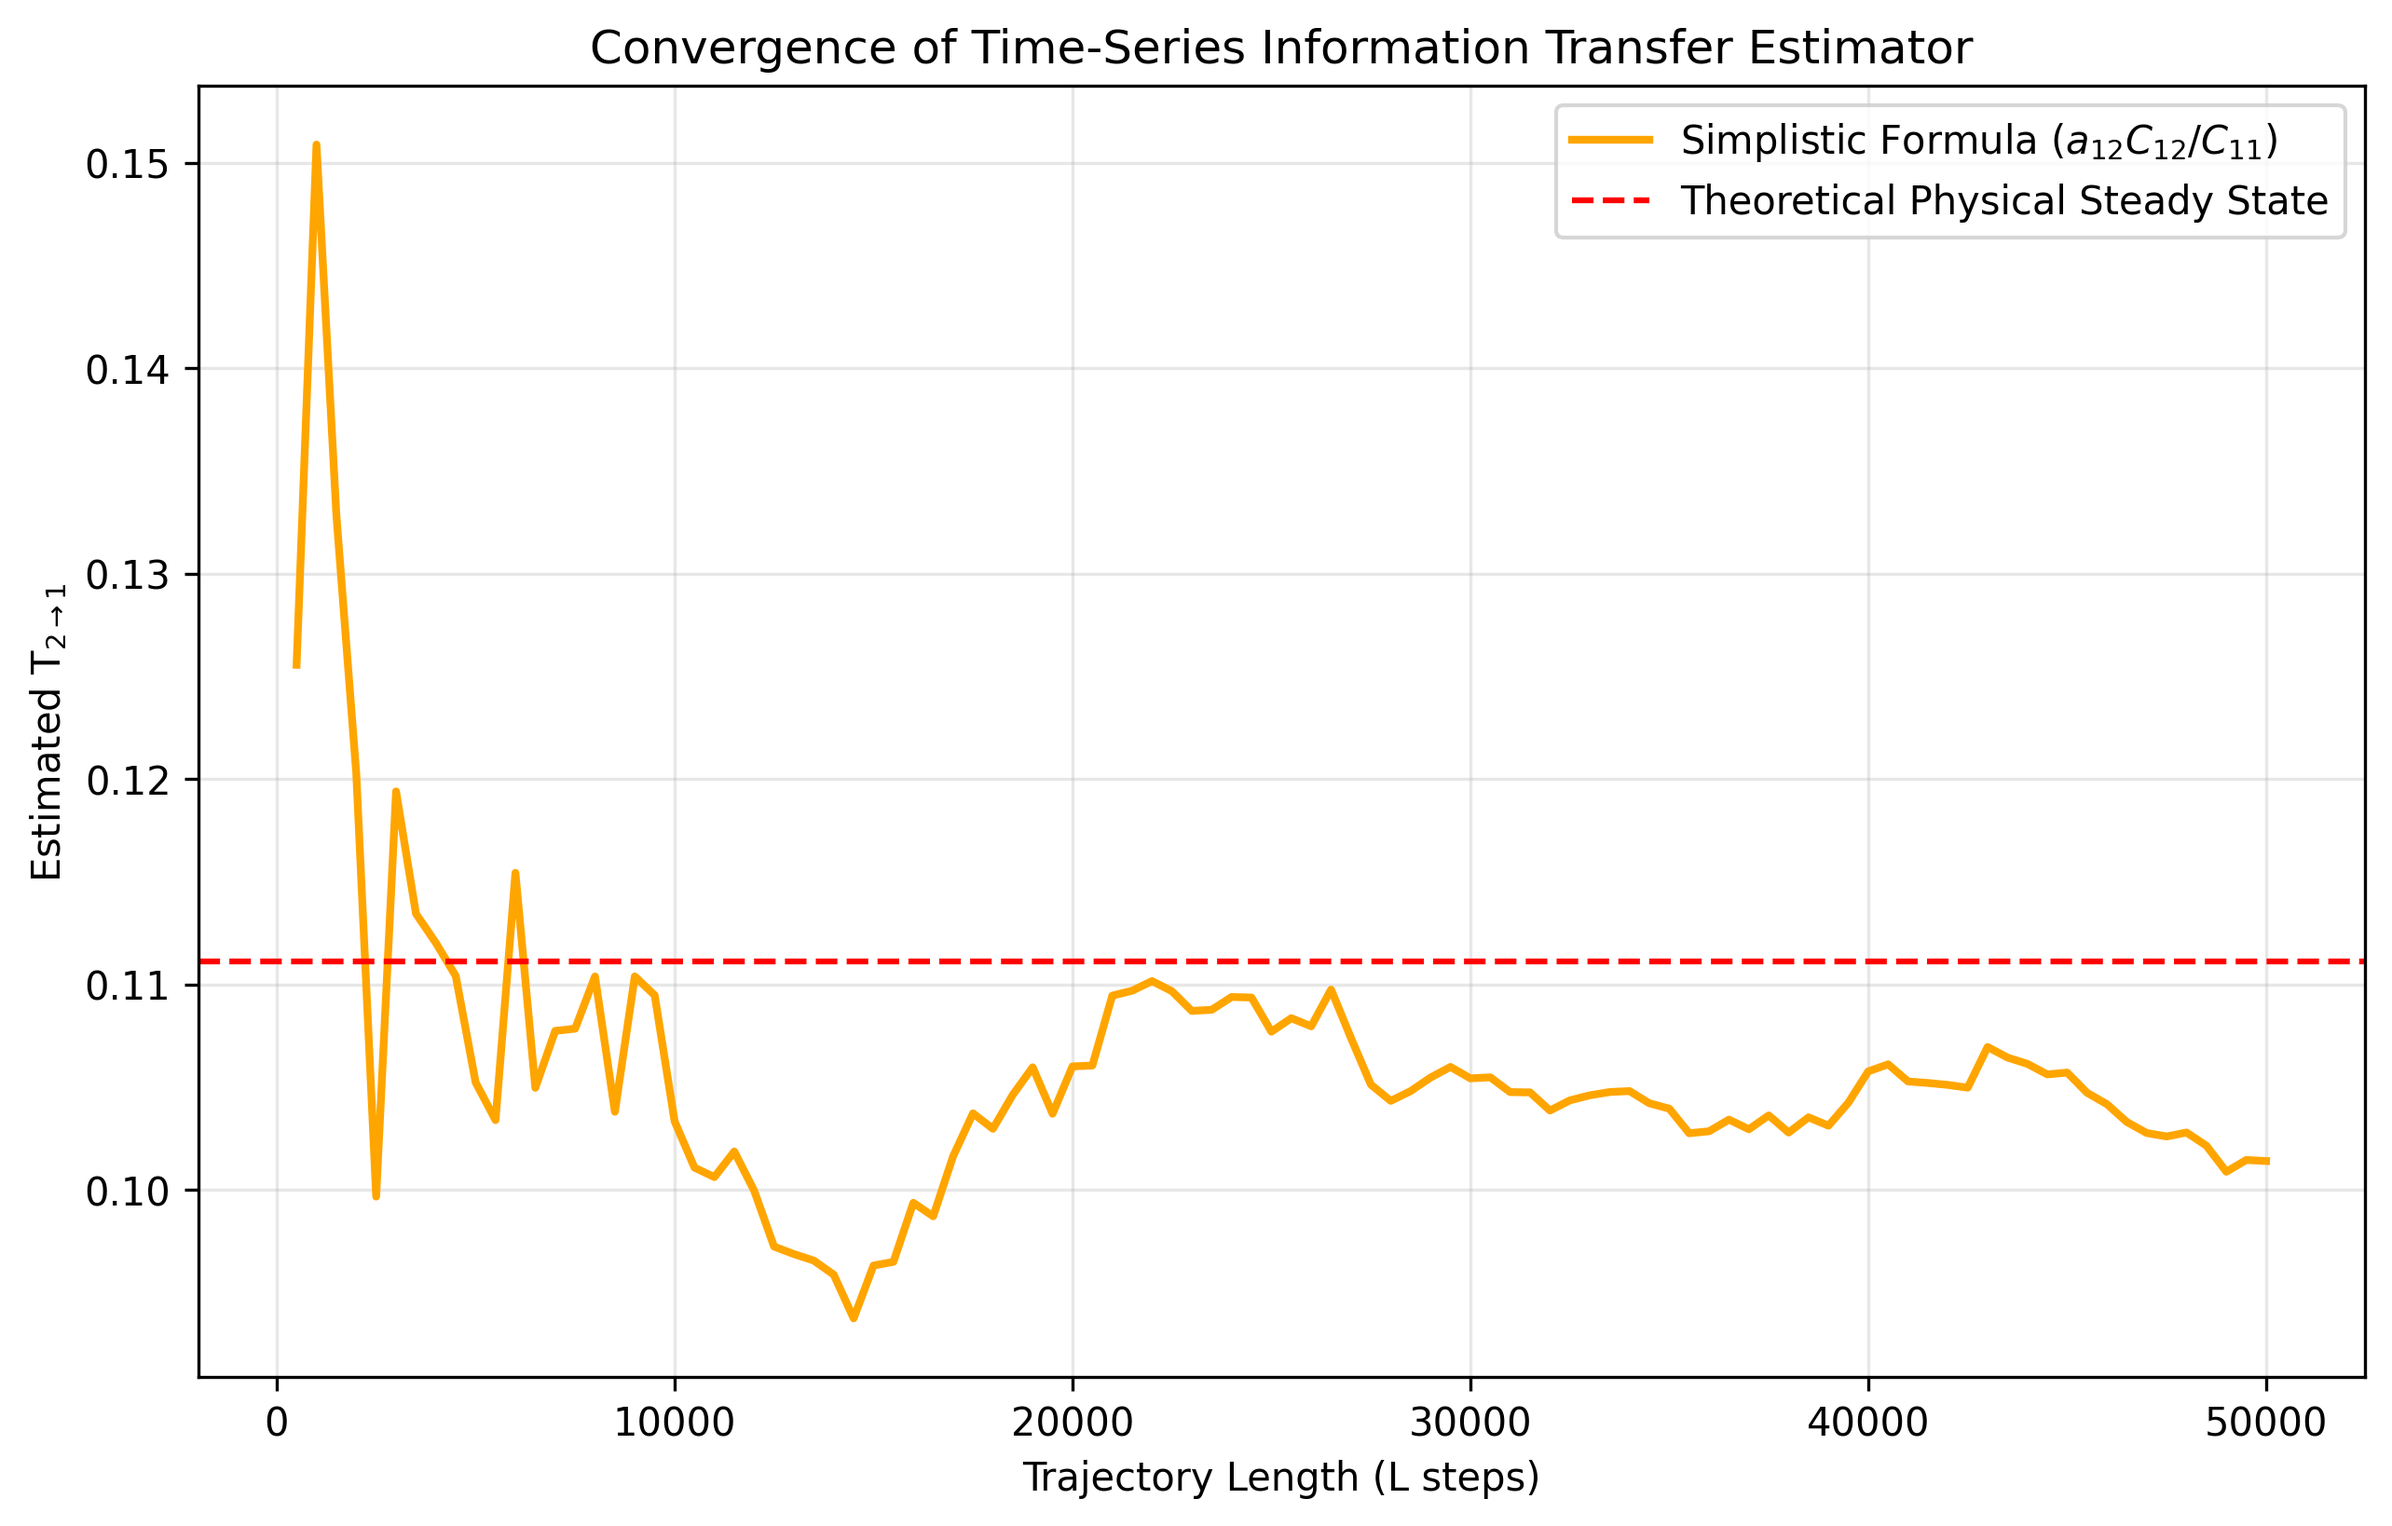
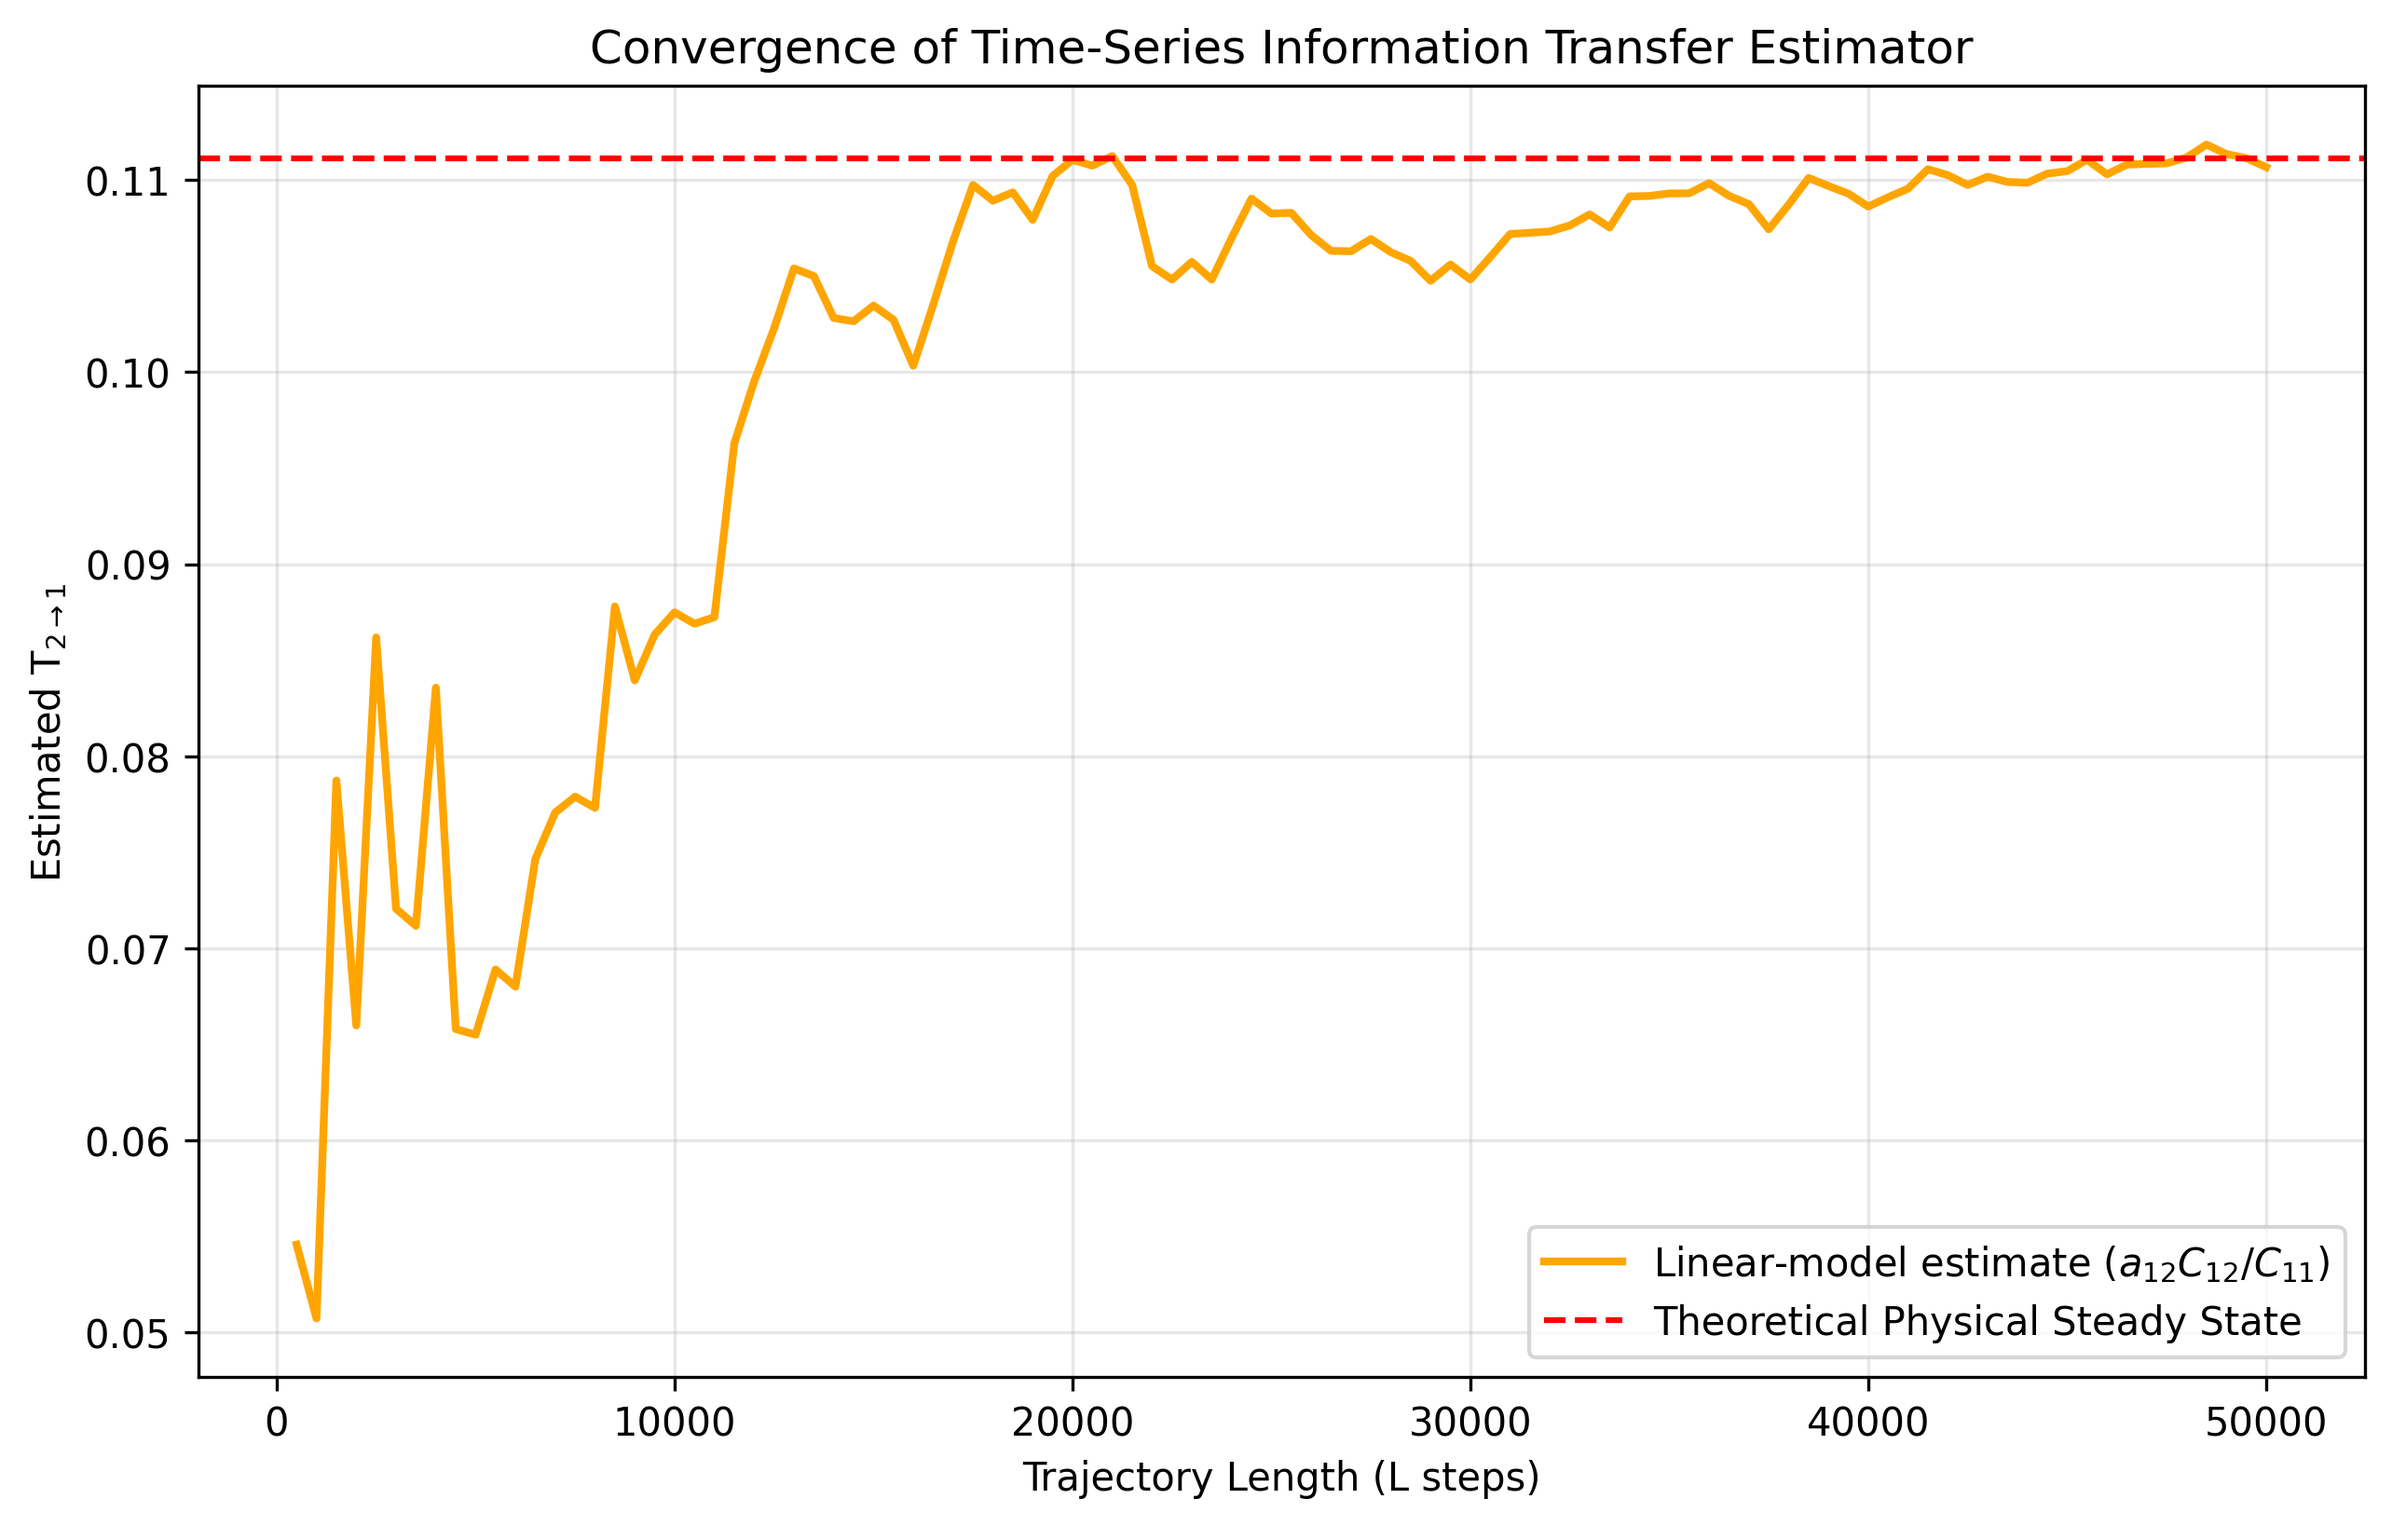
refactor: rename T21 estimator method from simplistic to linear-model in documentation and plots

diff --git a/time_series_estimator.py b/time_series_estimator.py
@@ -7,7 +7,7 @@ from lk_metrics import calc_T2_to_1
 
 def calc_t21_from_trajectory(X: torch.Tensor) -> float:
     """
-    Calculates T_{2->1} using the simplistic formula by re-using 
+    Calculates T_{2->1} using the linear-model formula by re-using
     the core covariance and metrics functions.
     """
     if X.shape[0] < 2:
@@ -27,7 +27,7 @@ def plot_t21_convergence(steps: list, t21_values: list):
     plt.figure(figsize=(10, 6))
     
     # Plot estimator
-    plt.plot(steps, t21_values, label='Simplistic Formula ($a_{12} C_{12} / C_{11}$)', color='orange', linewidth=2)
+    plt.plot(steps, t21_values, label='Linear-model estimate ($a_{12} C_{12} / C_{11}$)', color='orange', linewidth=2)
     
     # Theoretical physical stationary state
     plt.axhline(y=config.THEORETICAL_STEADY_STATE, color='red', linestyle='--', label='Theoretical Physical Steady State')
